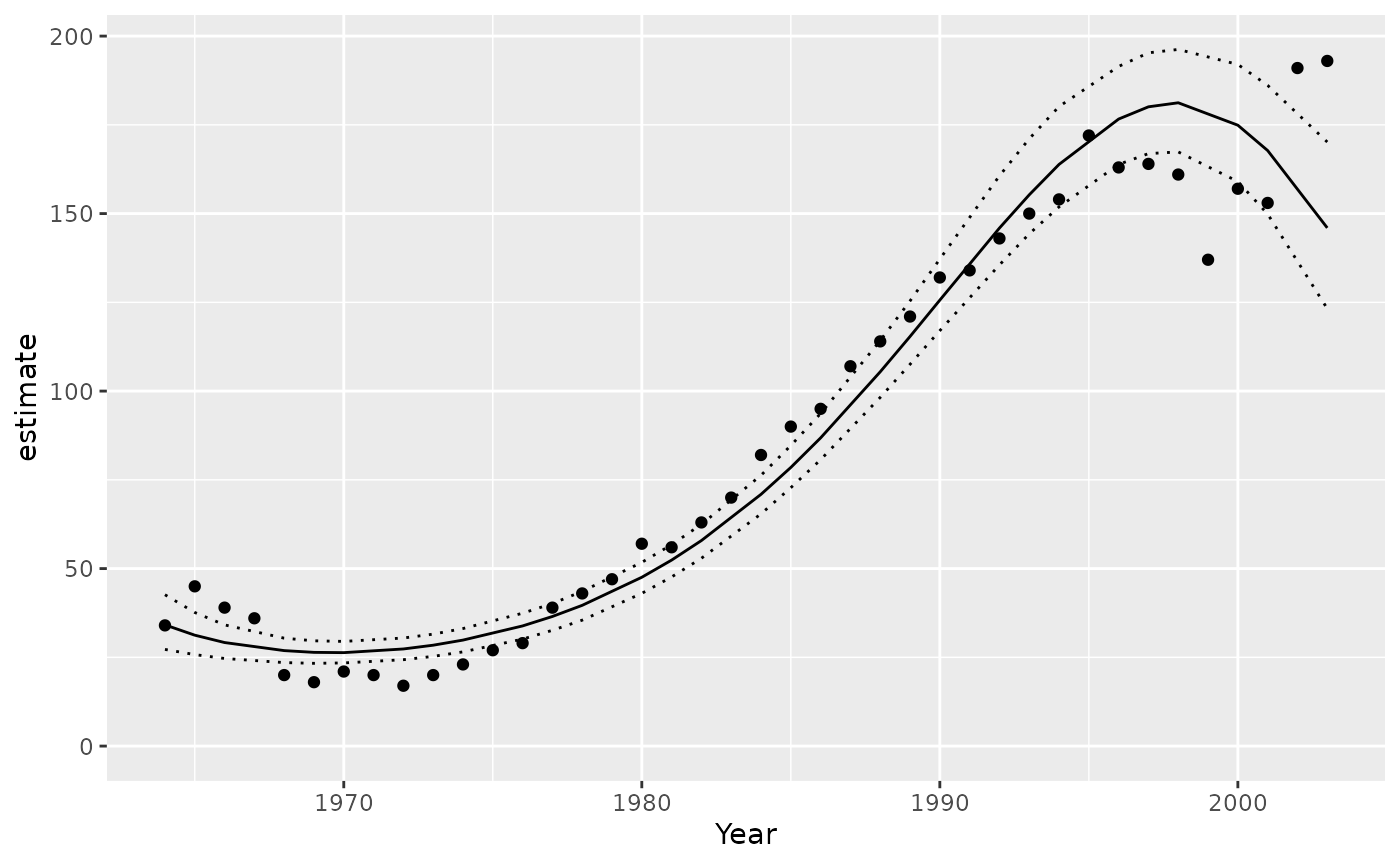
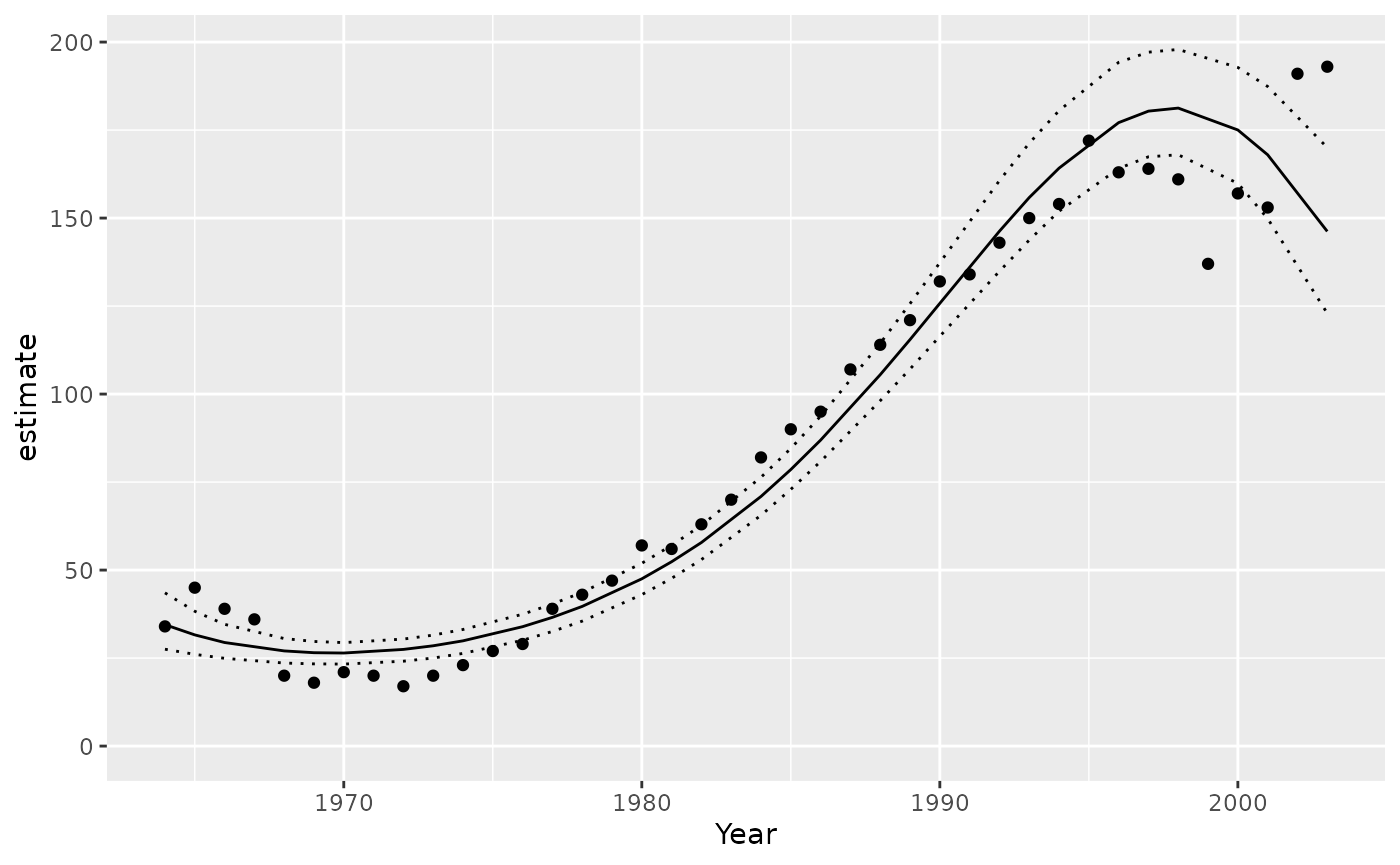
Deploying to gh-pages from @ poissonconsulting/jmbr@46450465f6044fa21c35b4b93015e93338d57e45 🚀

diff --git a/articles/jmbr.html b/articles/jmbr.html
@@ -255,7 +255,7 @@ value and discarding all other values.</p>
 <span><span class="co">#&gt; <span style="color: #555555;">Call `lifecycle::last_lifecycle_warnings()` to see where this warning was</span></span></span>
 <span><span class="co">#&gt; <span style="color: #555555;">generated.</span></span></span>
 <span></span>
-<span><span class="va">data</span> <span class="op">&lt;-</span> <span class="fu">bauw</span><span class="fu">::</span><span class="va"><a href="https://rdrr.io/pkg/bauw/man/peregrine.html" class="external-link">peregrine</a></span></span>
+<span><span class="va">data</span> <span class="op">&lt;-</span> <span class="fu">bauw</span><span class="fu">::</span><span class="va"><a href="https://poissonconsulting.github.io/bauw/reference/peregrine.html" class="external-link">peregrine</a></span></span>
 <span><span class="va">data</span><span class="op">$</span><span class="va">Annual</span> <span class="op">&lt;-</span> <span class="fu"><a href="https://rdrr.io/r/base/factor.html" class="external-link">factor</a></span><span class="op">(</span><span class="va">data</span><span class="op">$</span><span class="va">Year</span><span class="op">)</span></span>
 <span></span>
 <span><span class="fu"><a href="https://rdrr.io/pkg/embr/man/set_analysis_mode.html" class="external-link">set_analysis_mode</a></span><span class="op">(</span><span class="st">"report"</span><span class="op">)</span></span></code></pre></div>
@@ -300,14 +300,14 @@ value and discarding all other values.</p>
 <span><span class="co">#&gt; <span style="color: #949494;"># A tibble: 1 × 8</span></span></span>
 <span><span class="co">#&gt;       n     K nchains niters nthin   ess  rhat converged</span></span>
 <span><span class="co">#&gt;   <span style="color: #949494; font-style: italic;">&lt;int&gt;</span> <span style="color: #949494; font-style: italic;">&lt;int&gt;</span>   <span style="color: #949494; font-style: italic;">&lt;int&gt;</span>  <span style="color: #949494; font-style: italic;">&lt;int&gt;</span> <span style="color: #949494; font-style: italic;">&lt;int&gt;</span> <span style="color: #949494; font-style: italic;">&lt;int&gt;</span> <span style="color: #949494; font-style: italic;">&lt;dbl&gt;</span> <span style="color: #949494; font-style: italic;">&lt;lgl&gt;</span>    </span></span>
-<span><span class="co">#&gt; <span style="color: #BCBCBC;">1</span>    40     6       3    500    10   297  1.01 TRUE</span></span>
+<span><span class="co">#&gt; <span style="color: #BCBCBC;">1</span>    40     6       3    500    10   285  3.84 FALSE</span></span>
 <span><span class="co">#&gt; Warning in value[[3L]](cond): beep() could not play the sound due to the following error:</span></span>
 <span><span class="co">#&gt; Error in play.default(x, rate, ...): no audio drivers are available</span></span>
 <span><span class="va">analysis</span> <span class="op">&lt;-</span> <span class="fu"><a href="https://rdrr.io/pkg/embr/man/reanalyse.html" class="external-link">reanalyse</a></span><span class="op">(</span><span class="va">analysis</span><span class="op">)</span></span>
 <span><span class="co">#&gt; <span style="color: #949494;"># A tibble: 1 × 8</span></span></span>
 <span><span class="co">#&gt;       n     K nchains niters nthin   ess  rhat converged</span></span>
 <span><span class="co">#&gt;   <span style="color: #949494; font-style: italic;">&lt;int&gt;</span> <span style="color: #949494; font-style: italic;">&lt;int&gt;</span>   <span style="color: #949494; font-style: italic;">&lt;int&gt;</span>  <span style="color: #949494; font-style: italic;">&lt;int&gt;</span> <span style="color: #949494; font-style: italic;">&lt;int&gt;</span> <span style="color: #949494; font-style: italic;">&lt;int&gt;</span> <span style="color: #949494; font-style: italic;">&lt;dbl&gt;</span> <span style="color: #949494; font-style: italic;">&lt;lgl&gt;</span>    </span></span>
-<span><span class="co">#&gt; <span style="color: #BCBCBC;">1</span>    40     6       3    500    10   297  1.01 TRUE</span></span>
+<span><span class="co">#&gt; <span style="color: #BCBCBC;">1</span>    40     6       3    500    20   390  1.01 TRUE</span></span>
 <span><span class="co">#&gt; Warning in value[[3L]](cond): beep() could not play the sound due to the following error:</span></span>
 <span><span class="co">#&gt; Error in play.default(x, rate, ...): no audio drivers are available</span></span></code></pre></div>
 <p><strong>Analysis Table:</strong></p>
@@ -357,12 +357,12 @@ between- and within-chain estimates for model parameters.
 <span><span class="co">#&gt; <span style="color: #949494;"># A tibble: 6 × 7</span></span></span>
 <span><span class="co">#&gt;   term        estimate     sd  zscore   lower   upper   pvalue</span></span>
 <span><span class="co">#&gt;   <span style="color: #949494; font-style: italic;">&lt;term&gt;</span>         <span style="color: #949494; font-style: italic;">&lt;dbl&gt;</span>  <span style="color: #949494; font-style: italic;">&lt;dbl&gt;</span>   <span style="color: #949494; font-style: italic;">&lt;dbl&gt;</span>   <span style="color: #949494; font-style: italic;">&lt;dbl&gt;</span>   <span style="color: #949494; font-style: italic;">&lt;dbl&gt;</span>    <span style="color: #949494; font-style: italic;">&lt;dbl&gt;</span></span></span>
-<span><span class="co">#&gt; <span style="color: #BCBCBC;">1</span> alpha         4.26   0.039<span style="text-decoration: underline;">4</span> 108.     4.18    4.33   0.000<span style="text-decoration: underline;">666</span></span></span>
-<span><span class="co">#&gt; <span style="color: #BCBCBC;">2</span> beta1         1.19   0.071<span style="text-decoration: underline;">1</span>  16.9    1.07    1.35   0.000<span style="text-decoration: underline;">666</span></span></span>
-<span><span class="co">#&gt; <span style="color: #BCBCBC;">3</span> beta2        -<span style="color: #BB0000;">0.018</span><span style="color: #BB0000; text-decoration: underline;">1</span> 0.030<span style="text-decoration: underline;">3</span>  -<span style="color: #BB0000;">0.612</span> -<span style="color: #BB0000;">0.081</span><span style="color: #BB0000; text-decoration: underline;">1</span>  0.040<span style="text-decoration: underline;">9</span> 0.546   </span></span>
-<span><span class="co">#&gt; <span style="color: #BCBCBC;">4</span> beta3        -<span style="color: #BB0000;">0.273</span>  0.036<span style="text-decoration: underline;">0</span>  -<span style="color: #BB0000;">7.65</span>  -<span style="color: #BB0000;">0.351</span>  -<span style="color: #BB0000;">0.209</span>  0.000<span style="text-decoration: underline;">666</span></span></span>
-<span><span class="co">#&gt; <span style="color: #BCBCBC;">5</span> log_sAnnual  -<span style="color: #BB0000;">2.23</span>   0.316   -<span style="color: #BB0000;">7.16</span>  -<span style="color: #BB0000;">2.94</span>   -<span style="color: #BB0000;">1.74</span>   0.000<span style="text-decoration: underline;">666</span></span></span>
-<span><span class="co">#&gt; <span style="color: #BCBCBC;">6</span> sAnnual       0.107  0.031<span style="text-decoration: underline;">5</span>   3.47   0.053<span style="text-decoration: underline;">0</span>  0.175  0.000<span style="text-decoration: underline;">666</span></span></span></code></pre></div>
+<span><span class="co">#&gt; <span style="color: #BCBCBC;">1</span> alpha         4.26   0.039<span style="text-decoration: underline;">6</span> 108.     4.18    4.34   0.000<span style="text-decoration: underline;">666</span></span></span>
+<span><span class="co">#&gt; <span style="color: #BCBCBC;">2</span> beta1         1.20   0.071<span style="text-decoration: underline;">6</span>  16.8    1.07    1.36   0.000<span style="text-decoration: underline;">666</span></span></span>
+<span><span class="co">#&gt; <span style="color: #BCBCBC;">3</span> beta2        -<span style="color: #BB0000;">0.017</span><span style="color: #BB0000; text-decoration: underline;">5</span> 0.030<span style="text-decoration: underline;">7</span>  -<span style="color: #BB0000;">0.551</span> -<span style="color: #BB0000;">0.075</span><span style="color: #BB0000; text-decoration: underline;">0</span>  0.045<span style="text-decoration: underline;">3</span> 0.571   </span></span>
+<span><span class="co">#&gt; <span style="color: #BCBCBC;">4</span> beta3        -<span style="color: #BB0000;">0.275</span>  0.036<span style="text-decoration: underline;">4</span>  -<span style="color: #BB0000;">7.58</span>  -<span style="color: #BB0000;">0.353</span>  -<span style="color: #BB0000;">0.207</span>  0.000<span style="text-decoration: underline;">666</span></span></span>
+<span><span class="co">#&gt; <span style="color: #BCBCBC;">5</span> log_sAnnual  -<span style="color: #BB0000;">2.23</span>   0.301   -<span style="color: #BB0000;">7.48</span>  -<span style="color: #BB0000;">2.96</span>   -<span style="color: #BB0000;">1.73</span>   0.000<span style="text-decoration: underline;">666</span></span></span>
+<span><span class="co">#&gt; <span style="color: #BCBCBC;">6</span> sAnnual       0.107  0.030<span style="text-decoration: underline;">8</span>   3.57   0.051<span style="text-decoration: underline;">9</span>  0.177  0.000<span style="text-decoration: underline;">666</span></span></span></code></pre></div>
 <p>The estimate is the <strong>median</strong> by default.</p>
 <p>The zscore is
 <math display="inline" xmlns="http://www.w3.org/1998/Math/MathML"><semantics><mrow><mi>m</mi><mi>e</mi><mi>a</mi><mi>n</mi><mi>/</mi><mi>s</mi><mi>d</mi></mrow><annotation encoding="application/x-tex">mean / sd</annotation></semantics></math>.</p>
@@ -371,12 +371,12 @@ between- and within-chain estimates for model parameters.
 <span><span class="co">#&gt; <span style="color: #949494;"># A tibble: 6 × 5</span></span></span>
 <span><span class="co">#&gt;   term        estimate   lower   upper svalue</span></span>
 <span><span class="co">#&gt;   <span style="color: #949494; font-style: italic;">&lt;term&gt;</span>         <span style="color: #949494; font-style: italic;">&lt;dbl&gt;</span>   <span style="color: #949494; font-style: italic;">&lt;dbl&gt;</span>   <span style="color: #949494; font-style: italic;">&lt;dbl&gt;</span>  <span style="color: #949494; font-style: italic;">&lt;dbl&gt;</span></span></span>
-<span><span class="co">#&gt; <span style="color: #BCBCBC;">1</span> alpha         4.26    4.18    4.33   10.6  </span></span>
-<span><span class="co">#&gt; <span style="color: #BCBCBC;">2</span> beta1         1.19    1.07    1.35   10.6  </span></span>
-<span><span class="co">#&gt; <span style="color: #BCBCBC;">3</span> beta2        -<span style="color: #BB0000;">0.018</span><span style="color: #BB0000; text-decoration: underline;">1</span> -<span style="color: #BB0000;">0.081</span><span style="color: #BB0000; text-decoration: underline;">1</span>  0.040<span style="text-decoration: underline;">9</span>  0.874</span></span>
-<span><span class="co">#&gt; <span style="color: #BCBCBC;">4</span> beta3        -<span style="color: #BB0000;">0.273</span>  -<span style="color: #BB0000;">0.351</span>  -<span style="color: #BB0000;">0.209</span>  10.6  </span></span>
-<span><span class="co">#&gt; <span style="color: #BCBCBC;">5</span> log_sAnnual  -<span style="color: #BB0000;">2.23</span>   -<span style="color: #BB0000;">2.94</span>   -<span style="color: #BB0000;">1.74</span>   10.6  </span></span>
-<span><span class="co">#&gt; <span style="color: #BCBCBC;">6</span> sAnnual       0.107   0.053<span style="text-decoration: underline;">0</span>  0.175  10.6</span></span></code></pre></div>
+<span><span class="co">#&gt; <span style="color: #BCBCBC;">1</span> alpha         4.26    4.18    4.34   10.6  </span></span>
+<span><span class="co">#&gt; <span style="color: #BCBCBC;">2</span> beta1         1.20    1.07    1.36   10.6  </span></span>
+<span><span class="co">#&gt; <span style="color: #BCBCBC;">3</span> beta2        -<span style="color: #BB0000;">0.017</span><span style="color: #BB0000; text-decoration: underline;">5</span> -<span style="color: #BB0000;">0.075</span><span style="color: #BB0000; text-decoration: underline;">0</span>  0.045<span style="text-decoration: underline;">3</span>  0.809</span></span>
+<span><span class="co">#&gt; <span style="color: #BCBCBC;">4</span> beta3        -<span style="color: #BB0000;">0.275</span>  -<span style="color: #BB0000;">0.353</span>  -<span style="color: #BB0000;">0.207</span>  10.6  </span></span>
+<span><span class="co">#&gt; <span style="color: #BCBCBC;">5</span> log_sAnnual  -<span style="color: #BB0000;">2.23</span>   -<span style="color: #BB0000;">2.96</span>   -<span style="color: #BB0000;">1.73</span>   10.6  </span></span>
+<span><span class="co">#&gt; <span style="color: #BCBCBC;">6</span> sAnnual       0.107   0.051<span style="text-decoration: underline;">9</span>  0.177  10.6</span></span></code></pre></div>
 <p>The s-value is the <strong>suprisal</strong> value, which is a
 measure of directionality with respect to zero.</p>
 <p>The s-value is zero (unsurprising) when <em>p-value</em> = 1.0 and
@@ -401,7 +401,7 @@ including the random effect of <code>Annual</code> held constant.</p>
 <span><span class="kw"><a href="https://rdrr.io/r/base/library.html" class="external-link">library</a></span><span class="op">(</span><span class="va"><a href="https://ggplot2.tidyverse.org" class="external-link">ggplot2</a></span><span class="op">)</span></span>
 <span></span>
 <span><span class="fu"><a href="https://ggplot2.tidyverse.org/reference/ggplot.html" class="external-link">ggplot</a></span><span class="op">(</span>data <span class="op">=</span> <span class="va">year</span>, <span class="fu"><a href="https://ggplot2.tidyverse.org/reference/aes.html" class="external-link">aes</a></span><span class="op">(</span>x <span class="op">=</span> <span class="va">Year</span>, y <span class="op">=</span> <span class="va">estimate</span><span class="op">)</span><span class="op">)</span> <span class="op">+</span></span>
-<span>  <span class="fu"><a href="https://ggplot2.tidyverse.org/reference/geom_point.html" class="external-link">geom_point</a></span><span class="op">(</span>data <span class="op">=</span> <span class="fu">bauw</span><span class="fu">::</span><span class="va"><a href="https://rdrr.io/pkg/bauw/man/peregrine.html" class="external-link">peregrine</a></span>, <span class="fu"><a href="https://ggplot2.tidyverse.org/reference/aes.html" class="external-link">aes</a></span><span class="op">(</span>y <span class="op">=</span> <span class="va">Pairs</span><span class="op">)</span><span class="op">)</span> <span class="op">+</span></span>
+<span>  <span class="fu"><a href="https://ggplot2.tidyverse.org/reference/geom_point.html" class="external-link">geom_point</a></span><span class="op">(</span>data <span class="op">=</span> <span class="fu">bauw</span><span class="fu">::</span><span class="va"><a href="https://poissonconsulting.github.io/bauw/reference/peregrine.html" class="external-link">peregrine</a></span>, <span class="fu"><a href="https://ggplot2.tidyverse.org/reference/aes.html" class="external-link">aes</a></span><span class="op">(</span>y <span class="op">=</span> <span class="va">Pairs</span><span class="op">)</span><span class="op">)</span> <span class="op">+</span></span>
 <span>  <span class="fu"><a href="https://ggplot2.tidyverse.org/reference/geom_path.html" class="external-link">geom_line</a></span><span class="op">(</span><span class="op">)</span> <span class="op">+</span></span>
 <span>  <span class="fu"><a href="https://ggplot2.tidyverse.org/reference/geom_path.html" class="external-link">geom_line</a></span><span class="op">(</span><span class="fu"><a href="https://ggplot2.tidyverse.org/reference/aes.html" class="external-link">aes</a></span><span class="op">(</span>y <span class="op">=</span> <span class="va">lower</span><span class="op">)</span>, linetype <span class="op">=</span> <span class="st">"dotted"</span><span class="op">)</span> <span class="op">+</span></span>
 <span>  <span class="fu"><a href="https://ggplot2.tidyverse.org/reference/geom_path.html" class="external-link">geom_line</a></span><span class="op">(</span><span class="fu"><a href="https://ggplot2.tidyverse.org/reference/aes.html" class="external-link">aes</a></span><span class="op">(</span>y <span class="op">=</span> <span class="va">upper</span><span class="op">)</span>, linetype <span class="op">=</span> <span class="st">"dotted"</span><span class="op">)</span> <span class="op">+</span></span>

diff --git a/index.html b/index.html
@@ -118,7 +118,7 @@
 <span>  derived <span class="op">=</span> <span class="st">"sAnnual"</span>,</span>
 <span>  random_effects <span class="op">=</span> <span class="fu"><a href="https://rdrr.io/r/base/list.html" class="external-link">list</a></span><span class="op">(</span>bAnnual <span class="op">=</span> <span class="st">"Annual"</span><span class="op">)</span><span class="op">)</span></span>
 <span></span>
-<span><span class="va">data</span> <span class="op">&lt;-</span> <span class="fu">bauw</span><span class="fu">::</span><span class="va"><a href="https://rdrr.io/pkg/bauw/man/peregrine.html" class="external-link">peregrine</a></span></span>
+<span><span class="va">data</span> <span class="op">&lt;-</span> <span class="fu">bauw</span><span class="fu">::</span><span class="va"><a href="https://poissonconsulting.github.io/bauw/reference/peregrine.html" class="external-link">peregrine</a></span></span>
 <span><span class="va">data</span><span class="op">$</span><span class="va">Annual</span> <span class="op">&lt;-</span> <span class="fu"><a href="https://rdrr.io/r/base/factor.html" class="external-link">factor</a></span><span class="op">(</span><span class="va">data</span><span class="op">$</span><span class="va">Year</span><span class="op">)</span></span>
 <span></span>
 <span><span class="fu">set_analysis_mode</span><span class="op">(</span><span class="st">"report"</span><span class="op">)</span></span>
@@ -158,7 +158,7 @@
 <span><span class="kw"><a href="https://rdrr.io/r/base/library.html" class="external-link">library</a></span><span class="op">(</span><span class="va"><a href="https://ggplot2.tidyverse.org" class="external-link">ggplot2</a></span><span class="op">)</span></span>
 <span></span>
 <span><span class="fu"><a href="https://ggplot2.tidyverse.org/reference/ggplot.html" class="external-link">ggplot</a></span><span class="op">(</span>data <span class="op">=</span> <span class="va">year</span>, <span class="fu"><a href="https://ggplot2.tidyverse.org/reference/aes.html" class="external-link">aes</a></span><span class="op">(</span>x <span class="op">=</span> <span class="va">Year</span>, y <span class="op">=</span> <span class="va">estimate</span><span class="op">)</span><span class="op">)</span> <span class="op">+</span></span>
-<span>  <span class="fu"><a href="https://ggplot2.tidyverse.org/reference/geom_point.html" class="external-link">geom_point</a></span><span class="op">(</span>data <span class="op">=</span> <span class="fu">bauw</span><span class="fu">::</span><span class="va"><a href="https://rdrr.io/pkg/bauw/man/peregrine.html" class="external-link">peregrine</a></span>, <span class="fu"><a href="https://ggplot2.tidyverse.org/reference/aes.html" class="external-link">aes</a></span><span class="op">(</span>y <span class="op">=</span> <span class="va">Pairs</span><span class="op">)</span><span class="op">)</span> <span class="op">+</span></span>
+<span>  <span class="fu"><a href="https://ggplot2.tidyverse.org/reference/geom_point.html" class="external-link">geom_point</a></span><span class="op">(</span>data <span class="op">=</span> <span class="fu">bauw</span><span class="fu">::</span><span class="va"><a href="https://poissonconsulting.github.io/bauw/reference/peregrine.html" class="external-link">peregrine</a></span>, <span class="fu"><a href="https://ggplot2.tidyverse.org/reference/aes.html" class="external-link">aes</a></span><span class="op">(</span>y <span class="op">=</span> <span class="va">Pairs</span><span class="op">)</span><span class="op">)</span> <span class="op">+</span></span>
 <span>  <span class="fu"><a href="https://ggplot2.tidyverse.org/reference/geom_path.html" class="external-link">geom_line</a></span><span class="op">(</span><span class="op">)</span> <span class="op">+</span></span>
 <span>  <span class="fu"><a href="https://ggplot2.tidyverse.org/reference/geom_path.html" class="external-link">geom_line</a></span><span class="op">(</span><span class="fu"><a href="https://ggplot2.tidyverse.org/reference/aes.html" class="external-link">aes</a></span><span class="op">(</span>y <span class="op">=</span> <span class="va">lower</span><span class="op">)</span>, linetype <span class="op">=</span> <span class="st">"dotted"</span><span class="op">)</span> <span class="op">+</span></span>
 <span>  <span class="fu"><a href="https://ggplot2.tidyverse.org/reference/geom_path.html" class="external-link">geom_line</a></span><span class="op">(</span><span class="fu"><a href="https://ggplot2.tidyverse.org/reference/aes.html" class="external-link">aes</a></span><span class="op">(</span>y <span class="op">=</span> <span class="va">upper</span><span class="op">)</span>, linetype <span class="op">=</span> <span class="st">"dotted"</span><span class="op">)</span> <span class="op">+</span></span>
